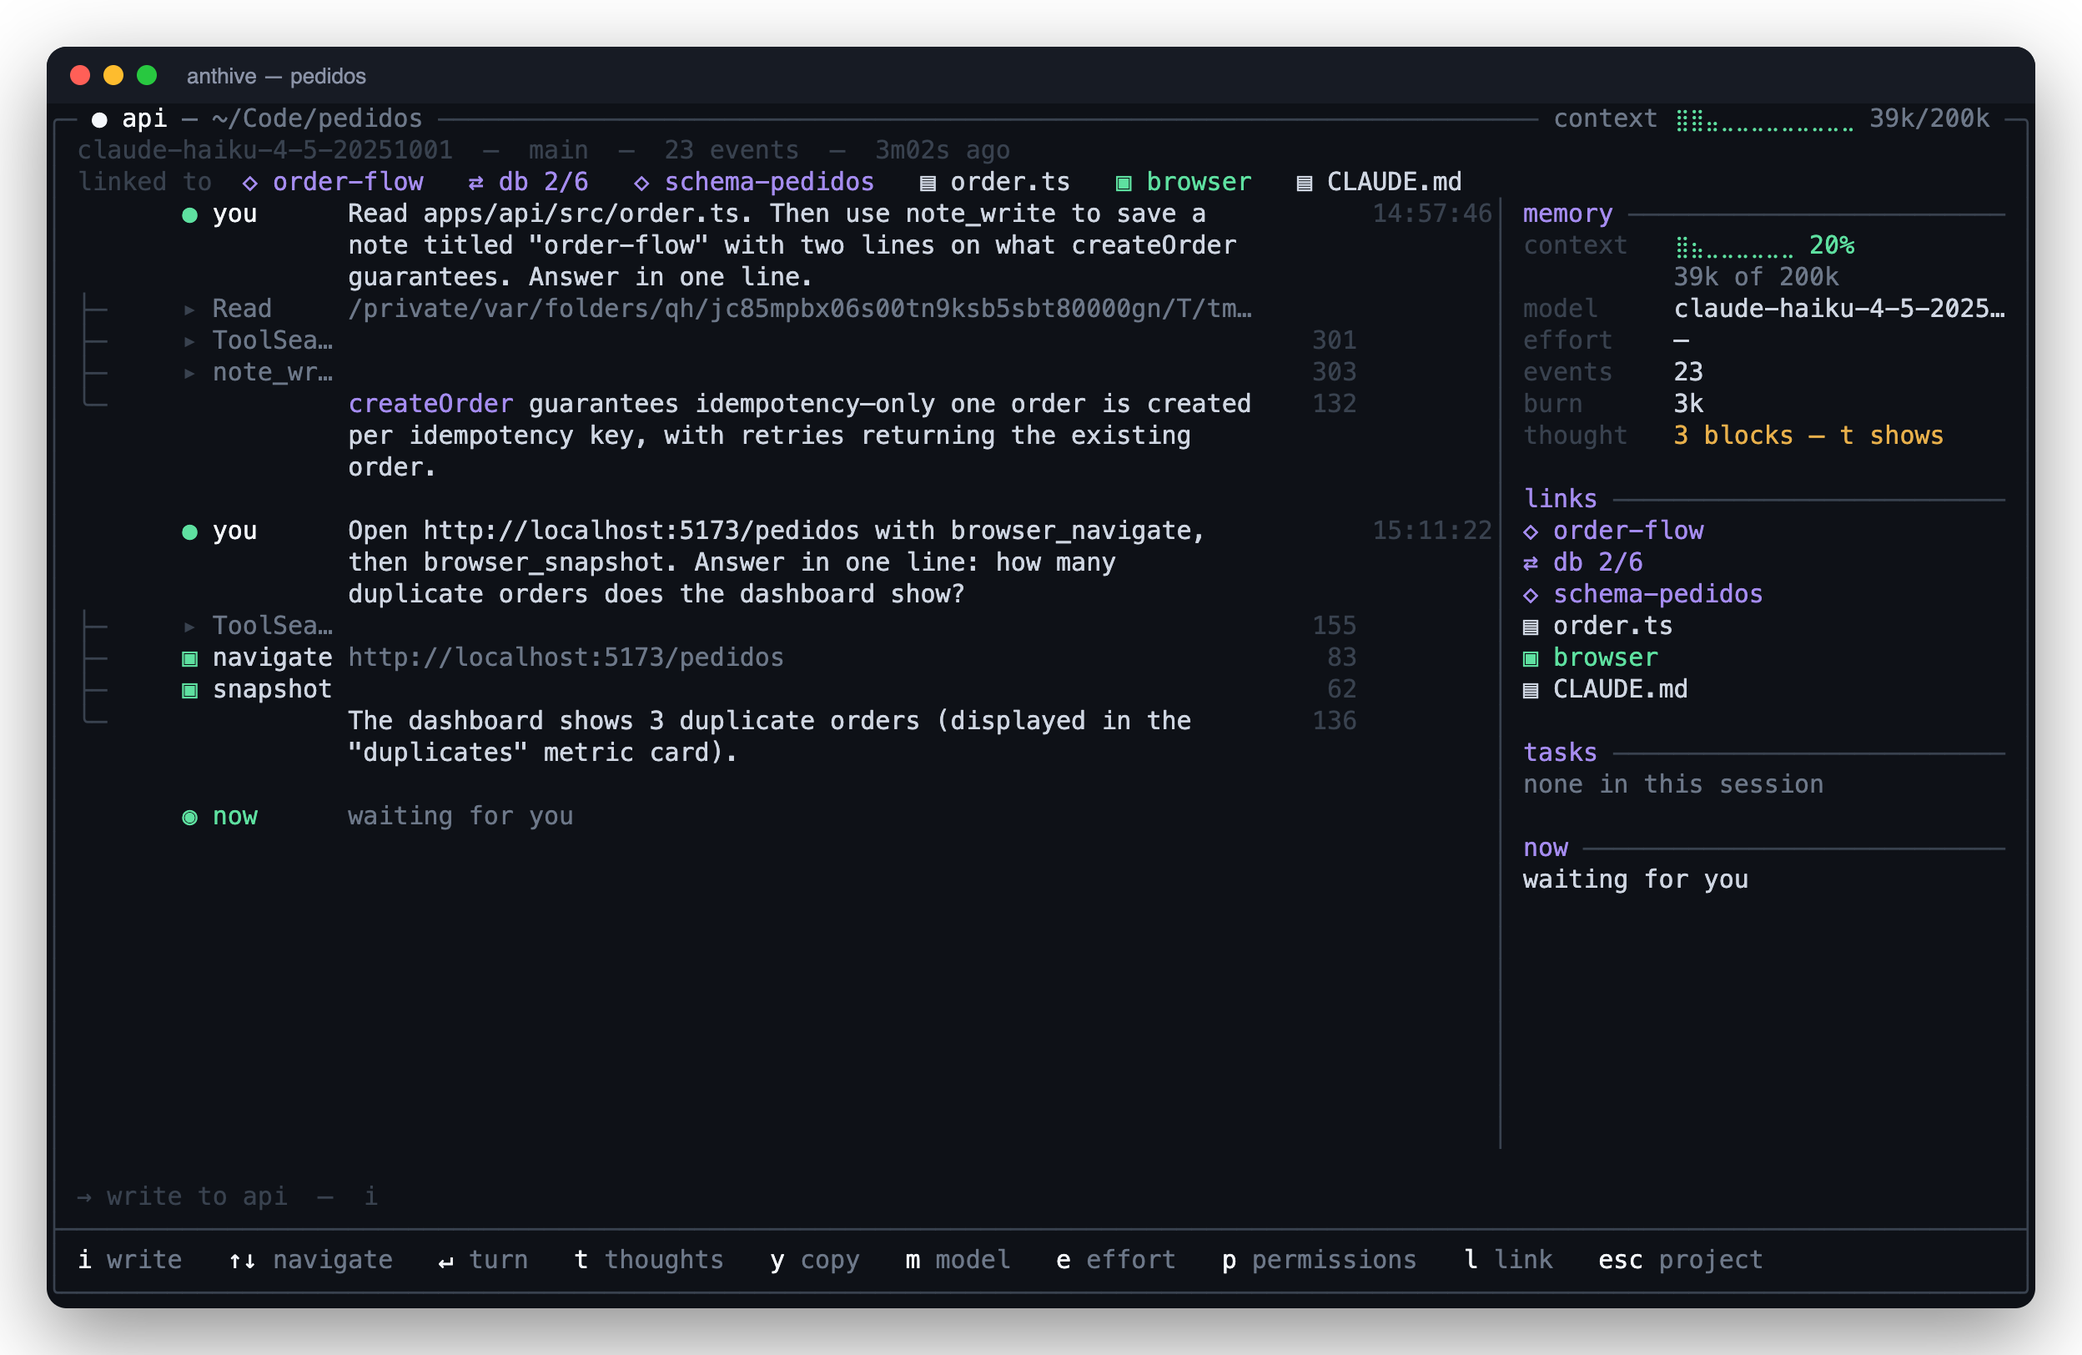
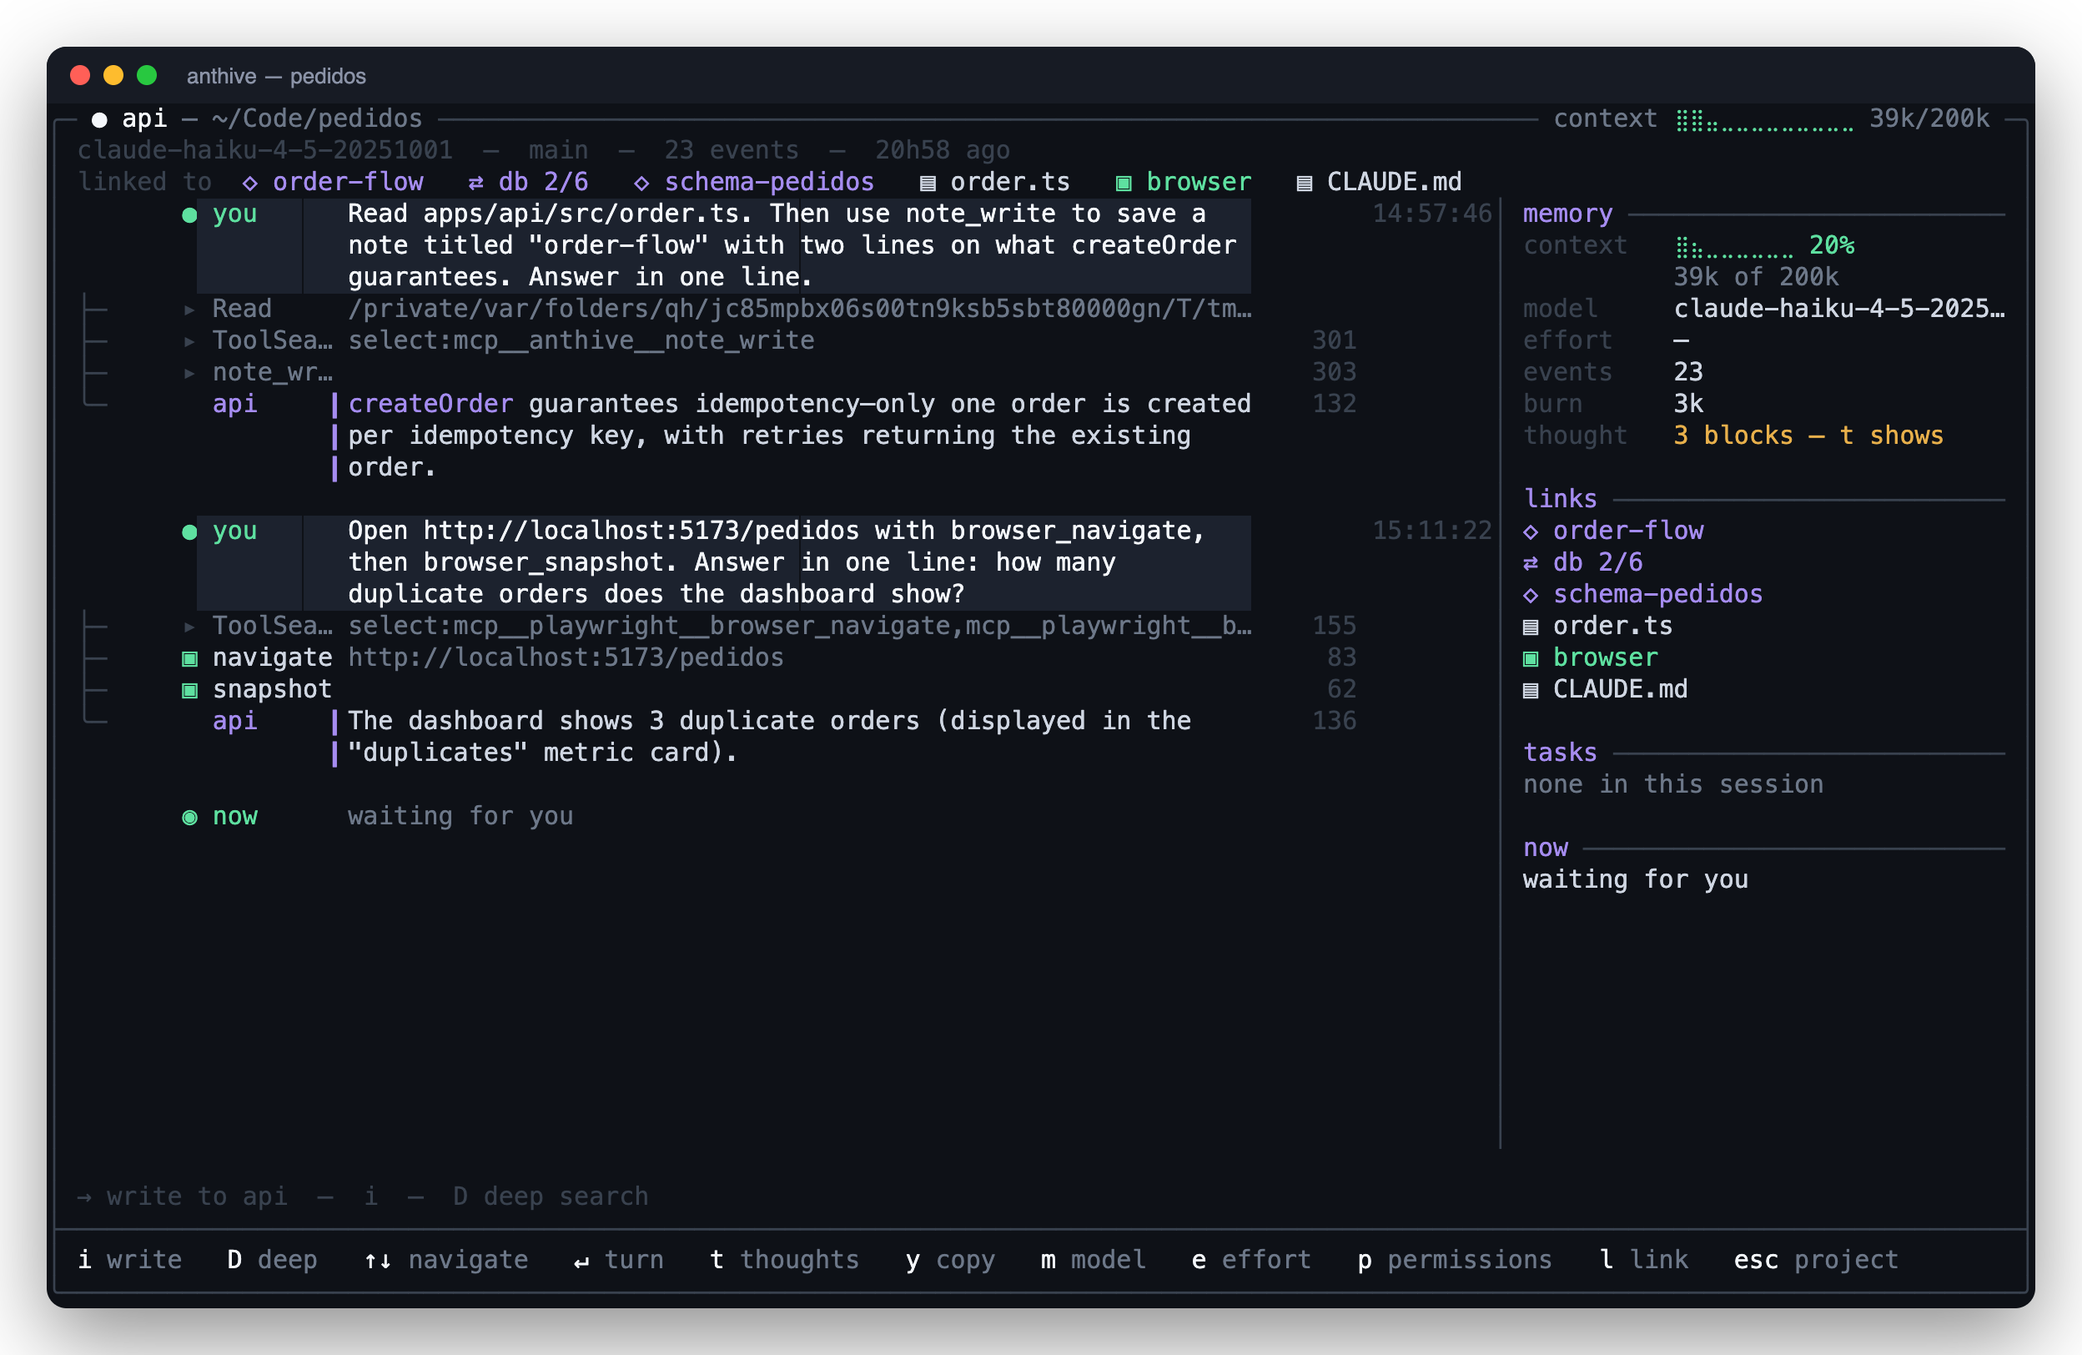
Markdown tables in chat, notes and context; three voices in the chat (you, the agent, its thinking); shots start the project Chrome

diff --git a/src/views/agent.ts b/src/views/agent.ts
@@ -13,7 +13,8 @@ import { renderMd, Span } from '../tui/markdown.ts';
 import { t } from '../i18n.ts';
 
 export type RowKind = 'turn' | 'child' | 'cont' | 'summary' | 'compact' | 'now' | 'blank';
-export interface Row { kind: RowKind; turn: string | null; connector: string; glyph: string; gc: RGB; name: string; nc: RGB; detail: string; dc: RGB; right: string; ts: number; showTime: boolean; spans?: Span[]; ev?: string }
+export type Voice = 'you' | 'agent' | 'thought';
+export interface Row { kind: RowKind; turn: string | null; connector: string; glyph: string; gc: RGB; name: string; nc: RGB; detail: string; dc: RGB; right: string; ts: number; showTime: boolean; voice?: Voice; spans?: Span[]; ev?: string }
 const BLANK: Row = { kind: 'blank', turn: null, connector: '', glyph: '', gc: C.frame, name: '', nc: C.frame, detail: '', dc: C.frame, right: '', ts: 0, showTime: false };
 const COLLAPSE_OVER = 6;
 
@@ -54,7 +55,7 @@ export function wrap(text: string, width: number): string[] {
 
 const RESEARCH: Record<string, string> = { WebSearch: 'search', WebFetch: 'fetch', mcp__anthive__project_search: 'hive' };
 
-export function rows(evs: Ev[], cwd = '', expanded: Set<string> = new Set(), width = 60, showThinking = false): Row[] {
+export function rows(evs: Ev[], cwd = '', expanded: Set<string> = new Set(), width = 60, showThinking = false, agentName = ''): Row[] {
   const out: Row[] = [];
   let turnId: string | null = null, pending: Child[] = [];
   const lastTurn = [...evs].reverse().find((e) => e.role === 'user' && !e.tool && e.text && !e.sidechain)?.uuid ?? null;
@@ -79,19 +80,19 @@ export function rows(evs: Ev[], cwd = '', expanded: Set<string> = new Set(), wid
         if (c.thought) {
           // raciocínio: texto corrido, apagado, quebrado na largura
           const ls = wrap(c.thought, width);
-          out.push({ kind: 'child', turn: turnId, connector: conn, glyph: c.glyph, gc: c.gc, name: c.name, nc: c.nc, detail: ls[0]!, dc: C.frame, right: '', ts: 0, showTime: false });
-          for (const l of ls.slice(1)) out.push({ kind: 'cont', turn: turnId, connector: stem, glyph: '', gc: C.frame, name: '', nc: C.frame, detail: l, dc: C.frame, right: '', ts: 0, showTime: false });
+          out.push({ kind: 'child', turn: turnId, connector: conn, glyph: c.glyph, gc: c.gc, name: c.name, nc: c.nc, detail: ls[0]!, dc: C.frame, right: '', ts: 0, showTime: false, voice: 'thought' });
+          for (const l of ls.slice(1)) out.push({ kind: 'cont', turn: turnId, connector: stem, glyph: '', gc: C.frame, name: '', nc: C.frame, detail: l, dc: C.frame, right: '', ts: 0, showTime: false, voice: 'thought' });
           continue;
         }
         if (c.tool || c.thinking) {
-          out.push({ kind: 'child', turn: turnId, connector: conn, glyph: c.glyph, gc: c.gc, name: c.name, nc: c.nc, detail: c.detail, dc: c.dc, right: c.right, ts: 0, showTime: false, ev: c.ev });
+          out.push({ kind: 'child', turn: turnId, connector: conn, glyph: c.glyph, gc: c.gc, name: c.name, nc: c.nc, detail: c.detail, dc: c.dc, right: c.right, ts: 0, showTime: false, ev: c.ev, voice: c.thinking ? 'thought' : undefined });
           continue;
         }
         // resposta em markdown: títulos, listas, código e ênfase viram cor
         const md = renderMd(c.full ?? c.detail, width);
         const first = md[0];
-        out.push({ kind: 'child', turn: turnId, connector: conn, glyph: c.glyph, gc: c.gc, name: c.name, nc: c.nc, detail: first ? first.spans.map((x) => x.text).join('') : '', dc: c.dc, right: c.right, ts: 0, showTime: false, spans: first?.spans });
-        for (const l of md.slice(1)) out.push({ kind: 'cont', turn: turnId, connector: stem, glyph: '', gc: C.frame, name: '', nc: C.frame, detail: l.spans.map((x) => x.text).join(''), dc: c.dc, right: '', ts: 0, showTime: false, spans: l.spans });
+        out.push({ kind: 'child', turn: turnId, connector: conn, glyph: c.glyph, gc: c.gc, name: agentName || c.name, nc: agentName ? C.link : c.nc, detail: first ? first.spans.map((x) => x.text).join('') : '', dc: c.dc, right: c.right, ts: 0, showTime: false, voice: 'agent', spans: first?.spans });
+        for (const l of md.slice(1)) out.push({ kind: 'cont', turn: turnId, connector: stem, glyph: '', gc: C.frame, name: '', nc: C.frame, detail: l.spans.map((x) => x.text).join(''), dc: c.dc, right: '', ts: 0, showTime: false, voice: 'agent', spans: l.spans });
       }
     }
     out.push(BLANK); pending = [];
@@ -116,8 +117,8 @@ export function rows(evs: Ev[], cwd = '', expanded: Set<string> = new Set(), wid
       if (!e.text) continue;
       flush(); turnId = e.uuid;
       const ls = wrap(e.full ?? e.text, width);
-      out.push({ kind: 'turn', turn: e.uuid, connector: '', glyph: G.running, gc: C.run, name: t('you'), nc: C.inkHi, detail: ls[0]!, dc: C.ink, right: '', ts: e.ts, showTime: true });
-      for (const l of ls.slice(1)) out.push({ kind: 'cont', turn: e.uuid, connector: '', glyph: '', gc: C.frame, name: '', nc: C.frame, detail: l, dc: C.ink, right: '', ts: 0, showTime: false });
+      out.push({ kind: 'turn', turn: e.uuid, connector: '', glyph: G.running, gc: C.run, name: t('you'), nc: C.run, detail: ls[0]!, dc: C.inkHi, right: '', ts: e.ts, showTime: true, voice: 'you' });
+      for (const l of ls.slice(1)) out.push({ kind: 'cont', turn: e.uuid, connector: '', glyph: '', gc: C.frame, name: '', nc: C.frame, detail: l, dc: C.inkHi, right: '', ts: 0, showTime: false, voice: 'you' });
       continue;
     }
     const right = e.usage?.output ? tok(e.usage.output) : '';
@@ -246,12 +247,17 @@ export function renderAgent(
   for (let i = 0; i < slice.length; i++) {
     const r = slice[i]!, y = top + i; if (r.kind === 'blank') continue;
     const on = scroll + i === cursorRow; if (on) g.fill({ x: 1, y, w: W - 2, h: 1 }, BG.sel);
+    // três vozes: você numa faixa própria, o agente com o nome e uma barra ao lado, o pensamento apagado com barra pontilhada
+    const band = !on && r.voice === 'you' ? BG.input : undefined;
+    if (band) g.fill({ x: nameX - 1, y, w: detailX + detailW - nameX + 1, h: 1 }, band);
+    if (r.voice === 'agent') g.put(detailX - 1, y, '▎', C.link);
+    if (r.voice === 'thought') g.put(detailX - 1, y, G.dV, C.sparkH);
     g.put(2, y, pad(r.connector, connW), C.frame); g.put(2 + connW, y, r.glyph, r.gc);
-    if (r.name) g.put(nameX, y, pad(r.name, nameW - 1), on && r.kind !== 'turn' ? C.inkHi : r.nc);
+    if (r.name) g.put(nameX, y, pad(r.name, nameW - 1), on && r.kind !== 'turn' ? C.inkHi : r.nc, band);
     let detail = r.detail, dc = r.dc;
     if (r.kind === 'now' && live?.busy) { detail = live.thinking ? `${t('thinking')}${G.ell} ${tok(live.thinking)}` : live.summary || `${t('thinking')}${G.ell}`; dc = C.run; }
-    if (r.spans && !on) { let sx = detailX; for (const sp of r.spans) { g.put(sx, y, fit(sp.text, Math.max(0, detailX + detailW - sx)), sp.color); sx += [...sp.text].length; if (sx >= detailX + detailW) break; } }
-    else g.put(detailX, y, fit(detail, detailW), on ? C.inkHi : dc);
+    if (r.spans && !on) { let sx = detailX; for (const sp of r.spans) { g.put(sx, y, fit(sp.text, Math.max(0, detailX + detailW - sx)), sp.color, band); sx += [...sp.text].length; if (sx >= detailX + detailW) break; } }
+    else g.put(detailX, y, fit(detail, detailW), on ? C.inkHi : dc, band);
     if (r.right) g.put(rightEdge - 3 - timeW - tokW, y, padStart(r.right, tokW), C.frame);
     if (r.showTime) g.put(rightEdge - 2 - timeW, y, hhmm(r.ts), C.frame);
   }

diff --git a/src/tui/markdown.ts b/src/tui/markdown.ts
@@ -6,7 +6,7 @@
 import { C, RGB } from './theme.ts';
 
 export interface Span { text: string; color: RGB }
-export type MdKind = 'h' | 'p' | 'li' | 'code' | 'quote' | 'blank' | 'hr';
+export type MdKind = 'h' | 'p' | 'li' | 'code' | 'quote' | 'blank' | 'hr' | 'table';
 export interface MdLine { kind: MdKind; spans: Span[] }
 
 type Ch = { ch: string; color: RGB };
@@ -69,12 +69,63 @@ function wrapChs(content: Ch[], width: number, first: Ch[], hang: Ch[]): Ch[][] 
   return lines;
 }
 
+// ---------------------------------------------------------------- tabelas
+const isSep = (l: string) => /^\s*\|?\s*:?-{2,}:?\s*(\|\s*:?-{2,}:?\s*)*\|?\s*$/.test(l) && l.includes('-');
+const cells = (l: string) => {
+  let s = l.trim();
+  if (s.startsWith('|')) s = s.slice(1);
+  if (s.endsWith('|') && !s.endsWith('\\|')) s = s.slice(0, -1);
+  return s.split(/(?<!\\)\|/).map((c) => c.replace(/\\\|/g, '|').trim());
+};
+const bare = (s: string) => s.replace(/\*\*/g, '').replace(/`/g, '').replace(/\[([^\]]+)\]\([^)]+\)/g, '$1');
+
+/** Colunas alinhadas, cabeçalho claro, sublinhado, células quebradas na largura da coluna; colunas largas encolhem até caber. */
+function table(header: string[], body: string[][], w: number): MdLine[] {
+  const ncol = Math.max(header.length, ...body.map((r) => r.length));
+  const all = [header, ...body].map((r) => Array.from({ length: ncol }, (_, i) => r[i] ?? ''));
+  const widths = Array.from({ length: ncol }, (_, i) => Math.max(1, ...all.map((r) => [...bare(r[i]!)].length)));
+  const gap = 2, avail = Math.max(ncol * 4, w - gap * (ncol - 1));
+  let total = widths.reduce((a, b) => a + b, 0);
+  while (total > avail) { const i = widths.indexOf(Math.max(...widths)); if (widths[i]! <= 4) break; widths[i]!--; total--; }
+  const out: MdLine[] = [];
+  const emit = (row: string[], color: RGB) => {
+    const wrapped = row.map((cell, i) => (cell ? wrapChs(inline(cell, color), widths[i]!, [], []) : [[]]));
+    const h = Math.max(1, ...wrapped.map((c) => c.length));
+    for (let k = 0; k < h; k++) {
+      const chs: Ch[] = [];
+      for (let i = 0; i < ncol; i++) {
+        const line = wrapped[i]![k] ?? [];
+        chs.push(...line);
+        for (let p = line.length; p < widths[i]!; p++) chs.push({ ch: ' ', color: C.ink });
+        if (i < ncol - 1) chs.push({ ch: ' ', color: C.frame }, { ch: ' ', color: C.frame });
+      }
+      out.push({ kind: 'table', spans: toSpans(chs) });
+    }
+  };
+  emit(all[0]!, C.inkHi);
+  const rule: Ch[] = [];
+  widths.forEach((cw, i) => { for (let p = 0; p < cw; p++) rule.push({ ch: '─', color: C.frame }); if (i < ncol - 1) rule.push({ ch: ' ', color: C.frame }, { ch: ' ', color: C.frame }); });
+  out.push({ kind: 'table', spans: toSpans(rule) });
+  for (const r of all.slice(1)) emit(r, C.ink);
+  return out;
+}
+
 export function renderMd(text: string, width: number): MdLine[] {
   const out: MdLine[] = [];
   let inCode = false;
   const w = Math.max(8, width);
-  for (const raw of text.replace(/\r/g, '').split('\n')) {
+  const lines = text.replace(/\r/g, '').split('\n');
+  for (let i = 0; i < lines.length; i++) {
+    const raw = lines[i]!;
     if (/^\s*```/.test(raw)) { inCode = !inCode; continue; }
+    if (!inCode && raw.trim().startsWith('|') && i + 1 < lines.length && isSep(lines[i + 1]!)) {
+      const body: string[][] = [];
+      let j = i + 2;
+      while (j < lines.length && lines[j]!.trim().startsWith('|')) { body.push(cells(lines[j]!)); j++; }
+      out.push(...table(cells(raw), body, w));
+      i = j - 1;
+      continue;
+    }
     if (inCode) {
       const chs = [...('  ' + raw)].map((ch) => ({ ch, color: C.dim }));
       out.push({ kind: 'code', spans: toSpans(chs.length > w ? [...chs.slice(0, w - 1), { ch: '…', color: C.frame }] : chs) });

diff --git a/docs/shots.ts b/docs/shots.ts
@@ -10,7 +10,7 @@ import { App } from '../src/app.ts';
 import { Screen } from '../src/tui/screen.ts';
 import { Grid } from '../src/tui/grid.ts';
 import * as P from '../src/core/project.ts';
-import { Cdp, pickPage, isUp } from '../src/core/cdp.ts';
+import { Cdp, pickPage, isUp, closeChrome } from '../src/core/cdp.ts';
 import { writeFile } from 'node:fs/promises';
 
 process.env.TERM_PROGRAM = 'ghostty';   // the app draws the image box only where the Kitty protocol exists
@@ -20,6 +20,10 @@ const sleep = (ms: number) => new Promise((r) => setTimeout(r, ms));
 
 const p = (await P.listProjects()).find((x) => x.name === project);
 if (!p) { console.error(`no project ${project} in ${process.env.ANTHIVE_HOME}`); process.exit(1); }
+// the project's hidden Chrome rasterizes the pages (and shows up live in the browser shot): make sure it is up, remember whether we started it
+const graph = await P.loadGraph(p.id);
+const brItem = graph.items.find((i): i is P.BrowserItem => i.kind === 'browser');
+const startedChrome = brItem ? (await P.ensureBrowserUp(brItem)) === 'started' : false;
 const screen = new Screen(); screen.W = W; screen.H = H; screen.write = () => {};
 const app = new App(screen); app.consentOk = true;
 await app.openProject(p);
@@ -104,4 +108,5 @@ for (const s of shots) {
 }
 await c.send('Target.closeTarget', { targetId: tid });
 c.close();
+if (startedChrome && brItem) await closeChrome(brItem.port);
 process.exit(0);

diff --git a/test/deep.ts b/test/deep.ts
@@ -86,5 +86,14 @@ must('notes and posts are found, ACL respected', dh.some((h) => h.kind === 'note
 const txt = formatHits({ hits: dh, counts: { notes: 1, threads: 2, transcripts: 0 }, scanned: 0, bytes: 0 }, 'api', 'idem', (a, t) => `<wrapped ${a}>${t}</wrapped>`);
 must('others are wrapped, own posts are [you]', txt.includes('<wrapped') && txt.includes('[you') && txt.startsWith('3 matches for "idem"'));
 must('no match says so without an error', formatHits({ hits: [], counts: { notes: 0, threads: 0, transcripts: 0 }, scanned: 2, bytes: 0 }, 'api', 'zzz', (a, t) => t).startsWith('No match for "zzz"'));
+// --- the three voices on screen
+const vevs = [ev({ type: 'user', role: 'user', text: 'oi', full: 'oi', ts: 1 }), ev({ text: 'resposta', full: 'resposta' })];
+const vrows = rows(vevs, '', new Set(), 60, false, 'api');
+const g3 = new Grid(100, 20);
+renderAgent(g3, agent, null, vevs, vrows, 0, -1, '', null, null, []);
+const yRow = vrows.findIndex((r) => r.voice === 'you'), aRow = vrows.findIndex((r) => r.voice === 'agent');
+must('your line sits on a band', !!g3.cell(20, 3 + yRow).bg);
+must('the agent line has the bar and the name', g3.toString().split('\n')[3 + aRow]!.includes('▎resposta') && g3.toString().split('\n')[3 + aRow]!.includes('api'));
+
 console.log(fails ? `\n${fails} failure(s)` : '\nall green');
 process.exit(fails ? 1 : 0);

diff --git a/test/markdown.ts b/test/markdown.ts
@@ -31,5 +31,12 @@ const code = ls.find((l) => l.kind === 'code')!;
 must('código não quebra: corta com …', [...plain(code)].length <= 40 && plain(code).endsWith('…'));
 must('régua vira traço', ls.some((l) => l.kind === 'hr'));
 must('sem linha em branco duplicada', !ls.some((l, i) => l.kind === 'blank' && ls[i + 1]?.kind === 'blank'));
+// --- tables
+const tb = renderMd('| a | b |\n|---|---|\n| 1 | **x** |\n| um valor bem comprido nesta célula | y |', 30);
+must('a table becomes aligned table lines: header, rule, rows', tb.filter((l) => l.kind === 'table').length >= 4 && plain(tb[0]!).startsWith('a') && plain(tb[0]!).includes('b') && /^─+\s+─+/.test(plain(tb[1]!)));
+must('cells wrap inside their column when the table is wider than the screen', tb.filter((l) => l.kind === 'table').length > 4 && tb.every((l) => [...plain(l)].length <= 30));
+must('bold inside a cell is emphasized', tb.some((l) => l.spans.some((sp) => sp.text === 'x' && sp.color === C.inkHi)));
+must('a lone pipe line is not a table', renderMd('| just text', 30)[0]!.kind === 'p');
+
 console.log(fails ? `\n${fails} falha(s)` : '\ntudo verde');
 process.exit(fails ? 1 : 0);

diff --git a/test/wrap.ts b/test/wrap.ts
@@ -16,5 +16,11 @@ must('continuação mantém o tronco da árvore', rs.filter((r) => r.kind === 'c
 must('"agora" diz o estado, não repete a resposta', rs[rs.length - 1]!.kind === 'now' && rs[rs.length - 1]!.detail === 'waiting for you');
 const tool = rows([ev({ type: 'user', role: 'user', text: 'x', full: 'x' }), ev({ text: 'Bash ' + 'c'.repeat(200), tool: 'Bash' })], '', new Set(), 40);
 must('comando de ferramenta fica numa linha só', !tool.some((r) => r.kind === 'cont'));
+// --- voices: you, the agent, its thoughts
+const voiced = rows([ev({ type: 'user', role: 'user', text: 'oi', full: 'oi' }), ev({ thinking: 'hmm', text: 'pensando' }), ev({ text: 'resposta', full: 'resposta **forte**' })], '', new Set(), 40, true, 'api');
+must('your turn is voice you, in green', voiced[0]!.voice === 'you' && voiced[0]!.name === 'you');
+must('the answer carries the agent name and voice agent', voiced.some((r) => r.voice === 'agent' && r.name === 'api'));
+must('thinking is voice thought', voiced.some((r) => r.voice === 'thought'));
+
 console.log(fails ? `\n${fails} falha(s)` : '\ntudo verde');
 process.exit(fails ? 1 : 0);

diff --git a/src/app.ts b/src/app.ts
@@ -375,7 +375,7 @@ export class App {
   lastLoadedPath = '';
   private memView() { return Math.max(1, this.grid.H - 8 - INPUT_H(this.composing)); }
   private rebuild(toBottom: boolean) {
-    this.rowsAll = rows(this.evs, this.agent?.cwd ?? '', this.expanded, detailWidth(this.grid.W, this.showPanel), this.showThinking);
+    this.rowsAll = rows(this.evs, this.agent?.cwd ?? '', this.expanded, detailWidth(this.grid.W, this.showPanel), this.showThinking, this.agent?.name ?? '');
     const max = Math.max(0, this.rowsAll.length - this.memView());
     if (toBottom) { this.aScroll = max; this.aCursor = -1; } else this.aScroll = Math.min(this.aScroll, max);
     this.dirty = true;
